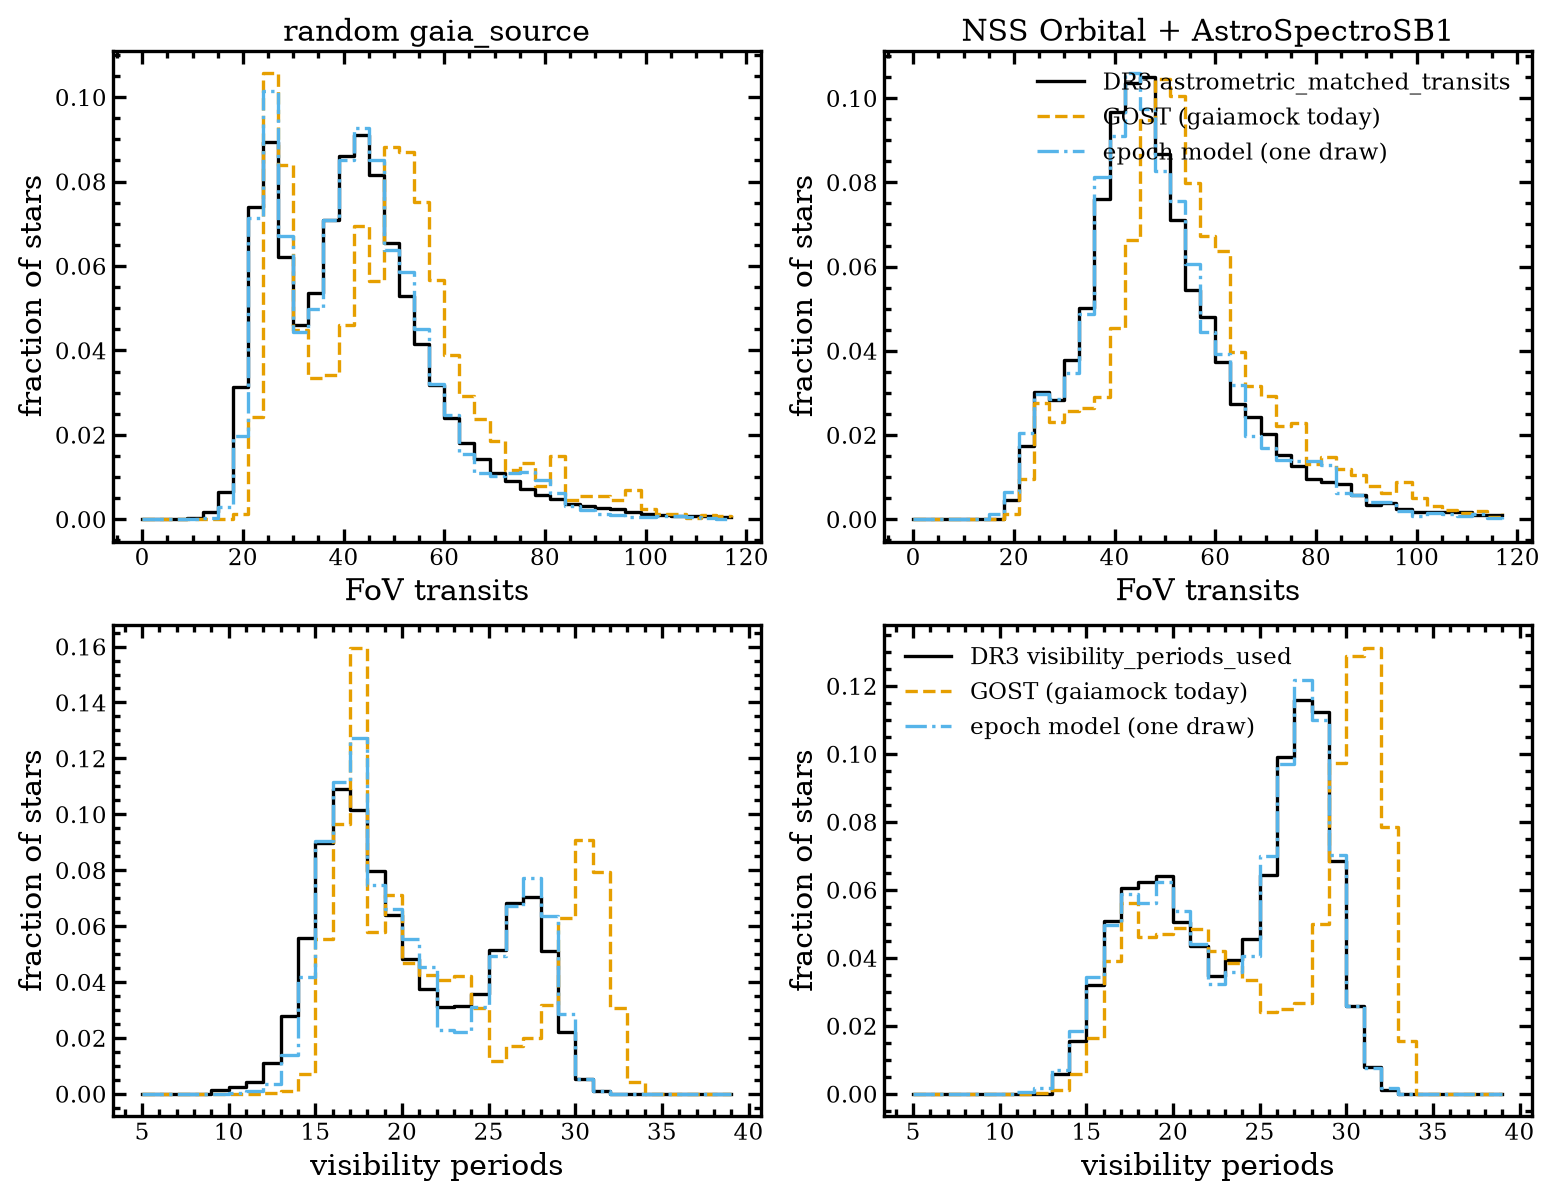
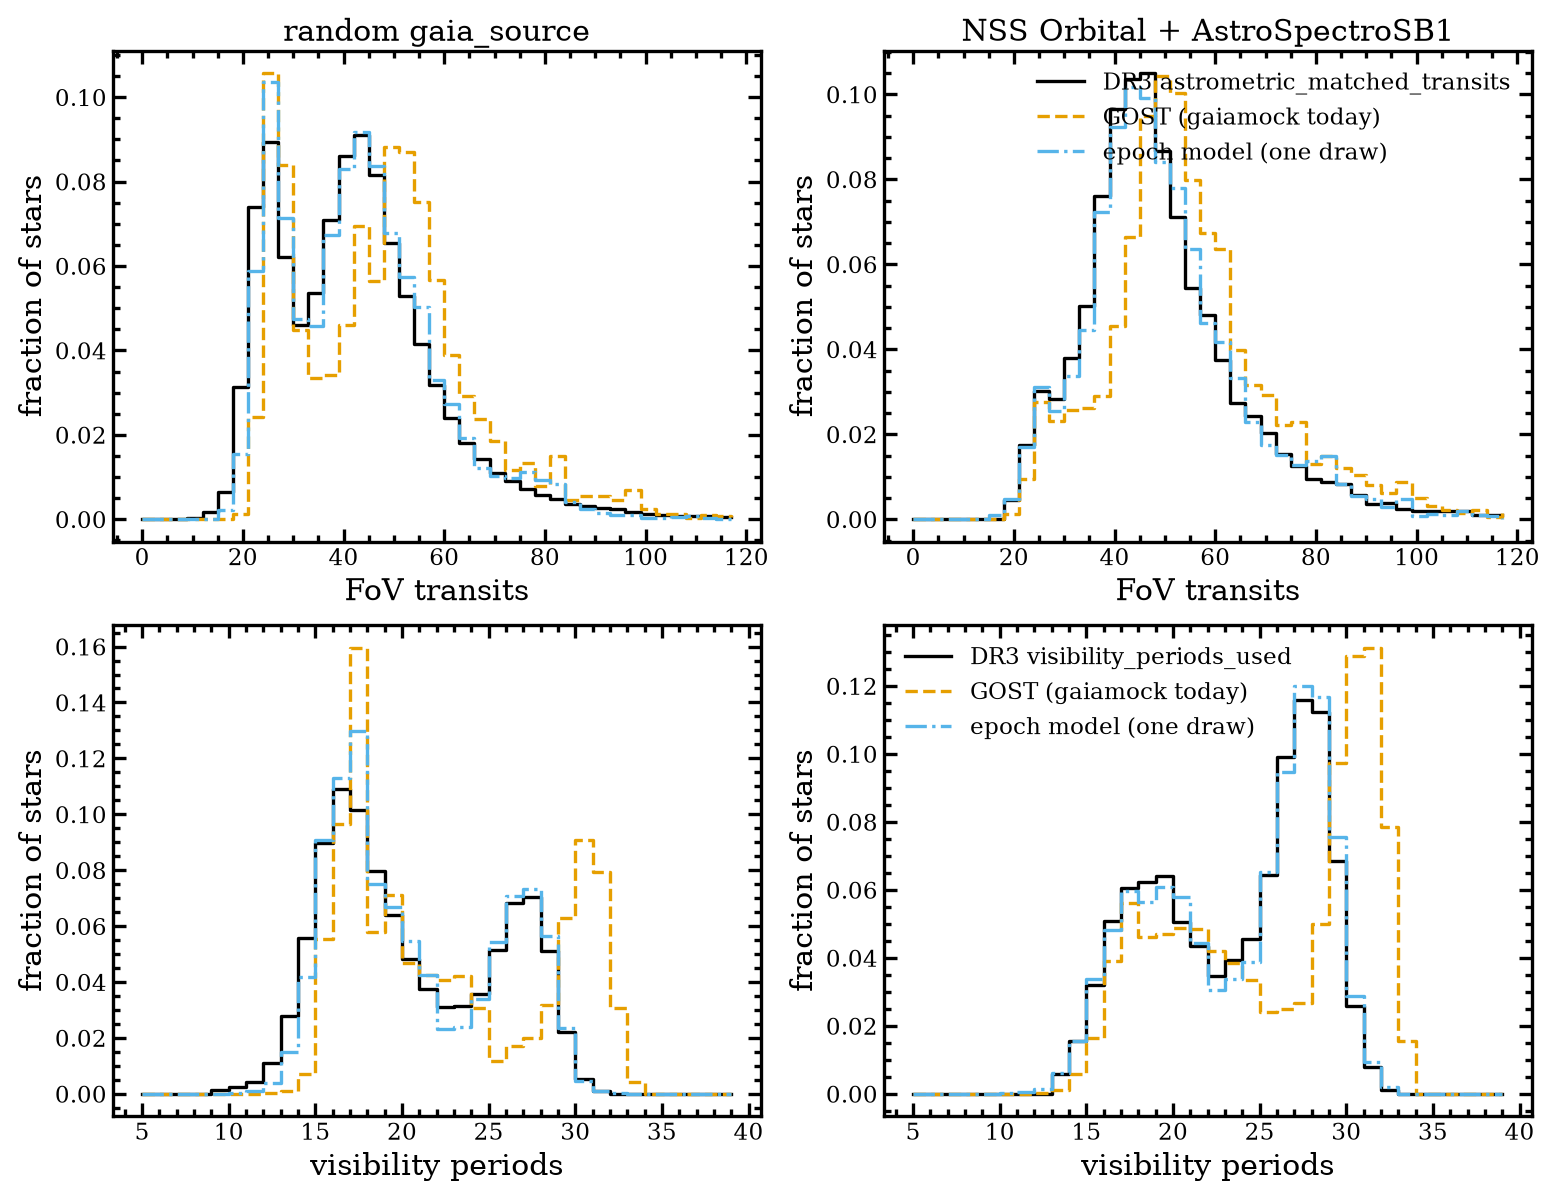
[AI Checkpoint] #400 v2: measurement figures use the configured v2 model; N2 F2/RUWE figure

diff --git a/scripts/plot_epoch_model_400.py b/scripts/plot_epoch_model_400.py
@@ -62,9 +62,14 @@ def _hist_step(ax: Any, x: np.ndarray, bins: np.ndarray, i: int, style: Any, lab
 
 
 def _model_draws(
-    g: np.lib.npyio.NpzFile, pix: np.ndarray, gmag: np.ndarray, cfg: em.EpochModelConfig, seed: int
+    g: np.lib.npyio.NpzFile, pix: np.ndarray, gmag: np.ndarray, cfg: em.EpochModelConfig, seed: int,
+    l_deg: np.ndarray | None = None, b_deg: np.ndarray | None = None,
 ) -> tuple[np.ndarray, np.ndarray]:
-    """Per star: transits and visibility periods from gaps + calibrated loss (one draw)."""
+    """Per star: transits and visibility periods from the configured model (one draw).
+
+    Same logic as ``epoch_model.thin_gost_mask`` at the transit level: gaps, then the
+    clustered episodes and the independent per-transit loss.
+    """
     off, tm = g["offsets"], g["t_mid"]
     gaps = em.gap_intervals_jd(cfg)
     keep_gap = ~em.in_gaps(tm, gaps)
@@ -73,8 +78,14 @@ def _model_draws(
     nvis = np.zeros(pix.size, dtype=np.int64)
     for i, (p, gm) in enumerate(zip(pix, gmag)):
         t = tm[off[p]:off[p + 1]][keep_gap[off[p]:off[p + 1]]]
-        pl = em.transit_loss_probability(float(gm), cfg)
-        t = t[rng.uniform(size=t.size) >= pl]
+        lb = {} if l_deg is None else {"l_deg": float(l_deg[i]), "b_deg": float(b_deg[i])}
+        q = 1.0 - em.keep_probability(float(gm), cfg, **lb)
+        e = em.clustered_fraction(float(gm), cfg) * q
+        p_ind = 1.0 - (1.0 - q) / (1.0 - e)
+        k = rng.uniform(size=t.size) >= p_ind
+        if e > 0 and cfg.clustered is not None:
+            k &= ~em.loss_episode_mask(t, e, cfg.clustered.tau_day, rng)
+        t = t[k]
         ntr[i] = t.size
         nvis[i] = em.n_visibility_periods_from_days(t, 4.0)
     return ntr, nvis
@@ -122,7 +133,13 @@ def cmd_measurement(args: argparse.Namespace) -> None:
                            "inj390/all": "#390 injection set"}[key])
     edges = np.asarray(cfg.transit_loss_g_edges)
     keep = 1 - np.asarray(cfg.transit_loss_prob)
-    ax.stairs(keep, edges, baseline=None, color="k", linewidth=2.5, label="calibrated model (config)")
+    ax.stairs(keep, edges, baseline=None, color="0.5", linewidth=2.0, label="v1 binned (#412, random stars)")
+    if cfg.continuous is not None:
+        gg = np.linspace(3.0, 19.0, 200)
+        cc = cfg.continuous
+        eta = cc.coef_g[0] + em.g_polynomial_basis(gg, cc) @ np.asarray(cc.coef_g[1:])
+        ax.plot(gg, np.minimum(1.0, np.exp(eta)), color="k", linewidth=2.5,
+                label="v2 continuous, NSS at RUWE 1.4 (sky average)")
     apply_axes_style(ax, style, xlabel="G (mag)", ylabel="DR3 transits / GOST transits after gaps",
                      title="Per-transit keep fraction after the published gaps")
     ax.set_ylim(0.85, 1.07)
@@ -156,7 +173,11 @@ def cmd_measurement(args: argparse.Namespace) -> None:
     fig, axes = plt.subplots(2, 2, figsize=(13, 10))
     for col, name in enumerate(("random", "nss")):
         d = data[name]
-        ntr_m, nvis_m = _model_draws(g, d["pix"], d["phot_g_mean_mag"], cfg, seed=400 + col)
+        with h5py.File(Path(dec["snapshot"]) / f"{name}.h5", "r") as fs:
+            lb = {int(a): (x, y) for a, x, y in zip(fs["source_id"][:], fs["l"][:], fs["b"][:])}
+        lg = np.array([lb[int(s_)][0] for s_ in d["source_id"]])
+        bg = np.array([lb[int(s_)][1] for s_ in d["source_id"]])
+        ntr_m, nvis_m = _model_draws(g, d["pix"], d["phot_g_mean_mag"], cfg, seed=400 + col, l_deg=lg, b_deg=bg)
         dr3_tr = d["dr3_astrometric_matched_transits"]
         dr3_vp = d["dr3_visibility_periods_used"]
         b_tr = np.arange(0, 121, 3)
@@ -420,6 +441,36 @@ def cmd_validation(args: argparse.Namespace) -> None:
                      title="Orbital: long-period acceleration capture (#399)")
     ax.legend(prop=legend_prop(style), loc="upper left", frameon=False)
     save_figure(fig, fig_dir / "validation_capture_vs_period.png", dpi=dpi)
+
+    # N2 check: F2 and RUWE ratio by G (Orbital)
+    gk = ("0-11", "11-12", "12-13", "13-25")
+    fig, axes = plt.subplots(1, 2, figsize=(14, 5.5))
+    pubf2 = [summary["variants"]["baseline"]["Orbital"]["f2_median_by_g"][k]["published"] for k in gk]
+    axes[0].plot(np.arange(4), pubf2, color="k", marker="*", markersize=16, linestyle="none", label="DR3 published")
+    j = 0
+    for v in variants:
+        if v in ("epoch", "epoch_noise"):
+            continue
+        st = series_style(j + 1, style)
+        o = summary["variants"][v]["Orbital"]
+        axes[0].plot(np.arange(4) + 0.08 * j, [o["f2_median_by_g"][k]["recovered"] for k in gk], color=st["color"],
+                     marker=st["marker"], linestyle="none", markersize=st["markersize"] + 2, label=labels[v])
+        axes[1].plot(np.arange(4) + 0.08 * j, [o["ruwe_ratio_by_g"][k]["renormalized"].get("median", np.nan) for k in gk],
+                     color=st["color"], marker=st["marker"], linestyle="none", markersize=st["markersize"] + 2,
+                     label=labels[v] + (" (RUWE renormalised)" if v == "v2_n2" else ""))
+        if v == "v2_n2":
+            axes[1].plot(np.arange(4) + 0.08 * j + 0.04, [o["ruwe_ratio_by_g"][k]["unrenormalized"].get("median", np.nan) for k in gk],
+                         color=st["color"], marker="x", linestyle="none", markersize=st["markersize"] + 4,
+                         label=labels[v] + " (not renormalised)")
+        j += 1
+    axes[1].axhline(1.0, color="0.4", linestyle=":", linewidth=1.5)
+    for ax in axes:
+        ax.set_xticks(np.arange(4), ["< 11", "11-12", "12-13", "> 13"])
+    apply_axes_style(axes[0], style, xlabel="G (mag)", ylabel="median F2 (orbit fits)", title="Orbital: goodness of fit")
+    apply_axes_style(axes[1], style, xlabel="G (mag)", ylabel="median recovered / published RUWE", title="Orbital: RUWE")
+    axes[0].legend(prop=legend_prop(style), loc="center right", frameon=False)
+    axes[1].legend(prop=legend_prop(style), loc="upper right", frameon=False, fontsize=11)
+    save_figure(fig, fig_dir / "validation_n2_f2_ruwe.png", dpi=dpi)
 
     path = fig_dir / "summary.json"
     old = json.loads(path.read_text()) if path.exists() else {}
